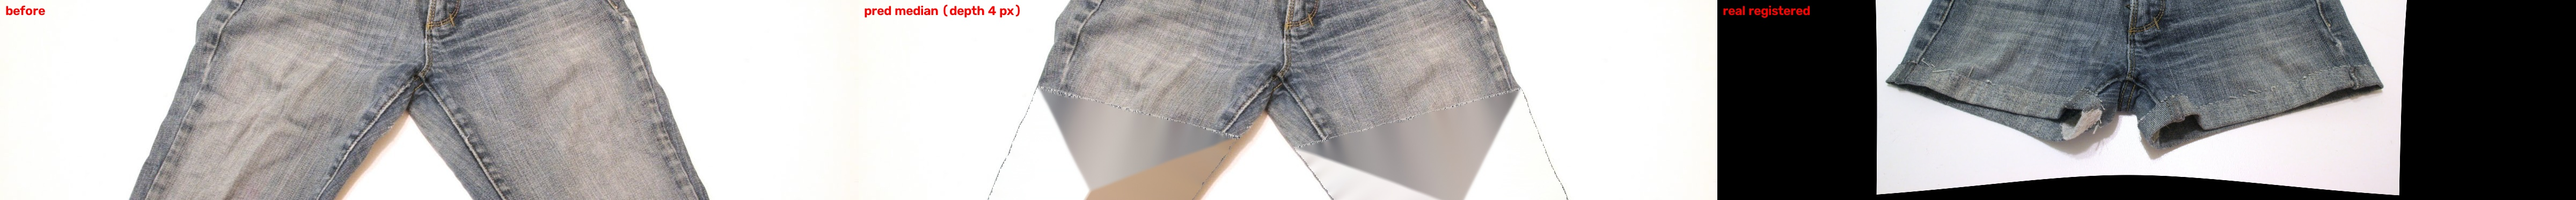
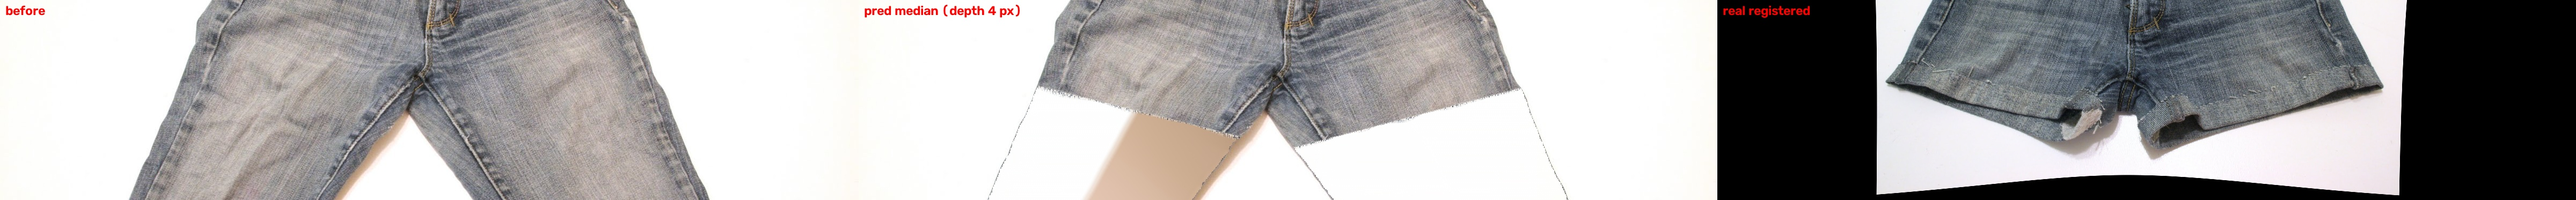
Backdrop-only background fill (inpaint whole garment, composite kept fabric back)

Changed region(s): [[0.4062, 0.4424, 0.5938, 1.0]]

diff --git a/src/denimtwin/canon/cut2d.py b/src/denimtwin/canon/cut2d.py
@@ -30,10 +30,7 @@ def apply_cut(image, garment_mask, cmap, remove_canon_mask, background_fill=None
     if background_fill is None:
         # inpaint the removed region from the surrounding background (Telea) instead of a flat median colour, so the
         # cut-away area looks like the floor/backdrop. Metrics never read these pixels (they use masks).
-        m = cv2.dilate(removed.astype(np.uint8), np.ones((5, 5), np.uint8))
-        src = image.copy(); src[gm & ~removed] = 0        # keep fabric out of the inpainting source? no: Telea uses the mask border only
-        out = cv2.inpaint(image, m, 7, cv2.INPAINT_TELEA)
-        out[~removed] = image[~removed]
+        out = background_fill(image, gm, removed)
     else:
         out[removed] = background_fill
     keep = garment_mask.astype(bool) & ~removed
@@ -52,3 +49,13 @@ def cut_mask_canon_angled(canon_size, inner_frac, outer_frac):
     ycut = yo + t * (yi - yo)
     m = np.arange(H)[:, None] >= ycut[None, :]
     return m
+
+def background_fill(image, garment_mask, removed):
+    """Fill `removed` with background texture only: inpaint the WHOLE garment from the surrounding backdrop
+    (so no fabric colour can bleed in), then composite the kept garment back. Metrics never read these pixels."""
+    gm = garment_mask.astype(np.uint8)
+    big = cv2.dilate(gm, np.ones((7, 7), np.uint8))
+    small = cv2.resize(image, None, fx=0.5, fy=0.5, interpolation=cv2.INTER_AREA); msmall = cv2.resize(big, (small.shape[1], small.shape[0]), interpolation=cv2.INTER_NEAREST)
+    bg_small = cv2.inpaint(small, msmall, 9, cv2.INPAINT_TELEA)                     # half-res for speed on large garments
+    bg = cv2.resize(bg_small, (image.shape[1], image.shape[0]), interpolation=cv2.INTER_LINEAR)
+    out = image.copy(); out[removed] = bg[removed]; return out

diff --git a/tools/run_pair.py b/tools/run_pair.py
@@ -13,6 +13,7 @@ from denimtwin.seg.sam import SamSegmenter, segment_garment_coarse, segment_frin
 from denimtwin.canon.autolm import landmarks_from_mask
 from denimtwin.canon.register import warp_after_to_before, SURVIVING
 from denimtwin.canon.hemfit import estimate_hems, cut_mask_from_lines
+from denimtwin.canon.cut2d import background_fill
 from denimtwin.canon.rawedge_v1 import render_three
 
 p = argparse.ArgumentParser()
@@ -116,7 +117,7 @@ if ov < 0.6: FAIL(f"registration failed: only {ov:.2f} of the registered real ga
 cb_ok = cb.get("garment_type") == "jeans"
 if not cb_ok: FAIL(f"before image is not full-length jeans (aspect says {cb.get('garment_type')})")
 bg = np.median(bf[~bmask], axis=0)
-cut = cv2.inpaint(bf, cv2.dilate(removed.astype(np.uint8), np.ones((5, 5), np.uint8)), 7, cv2.INPAINT_TELEA); cut[~removed] = bf[~removed]   # background inpainting, not a flat fill
+cut = background_fill(bf, bmask, removed)   # backdrop-only inpainting, no fabric bleed
 depth_measured_px = np.mean([L["fringe_depth_px"] for L in legs.values() if L])
 if a.prior:
     pr = json.load(open(a.prior)); ww = abs(lmb["waist_right"][0] - lmb["waist_left"][0])

diff --git a/experiments/pairs/SUMMARY.md b/experiments/pairs/SUMMARY.md
@@ -2,15 +2,15 @@
 
 | page | title | after | status | sil IoU pred / crop / no-op | chamfer px pred / crop | edge ΔE pred / crop | fringe IoU pred / no-op |
 |---|---|---|---|---|---|---|---|
-| b630a78c19 | How To Make Jeans Into Shorts The Easy W | after_cut | ok | 0.46 / 0.46 / 0.54 | 363 / 368 | 16.3 / 17.4 | 0.02 / 0.58 |
+| b630a78c19 | How To Make Jeans Into Shorts The Easy W | after_cut | ok | 0.46 / 0.46 / 0.54 | 363 / 368 | 17.5 / 17.4 | 0.02 / 0.58 |
 | 660bef67bf | Cómo hacer shorts con jeans viejos | after_cut | FAIL: REJECT: degenerate cut: removed fraction 0.00 | | | | |
 | 85d48013a2 | Tutorial: Aus Lang mach Kurz – Jeanshose | after_cut | FAIL: REJECT: after: garment touches the frame edge (cropped photo | | | | |
-| 4bfef03bd7 | DIY Denim Shorts | Thrifted Jeans Into S | after_wash | ok | 0.77 / 0.75 / 0.29 | 17 / 22 | 19.5 / 23.3 | 0.26 / 0.04 |
+| 4bfef03bd7 | DIY Denim Shorts | Thrifted Jeans Into S | after_wash | ok | 0.77 / 0.75 / 0.29 | 17 / 22 | 23.0 / 23.3 | 0.26 / 0.04 |
 | ee4bf13a3c | Magnolia Mamas: Fashion Fix: DIY Distres | after_wash | FAIL: REJECT: before: widest top row is not a single waistband run | | | | |
-| 8d9f0df4ad | This summer's DIY cut-off jeans shorts-- | after_cut | ok | 0.94 / 0.94 / 0.42 | 8 / 9 | 20.3 / 21.5 | 0.11 / 0.02 |
+| 8d9f0df4ad | This summer's DIY cut-off jeans shorts-- | after_cut | ok | 0.94 / 0.94 / 0.42 | 8 / 9 | 21.2 / 21.5 | 0.11 / 0.02 |
 | 963fcdd264 | DIY; Mom Jeans to High Waisted Shorts |  | after_cut | FAIL: REJECT: before: widest top row is not a single waistband run | | | | |
 | d52a3ff876 | Under Peach Trees: D.I.Y. Jeans to Short | after_cut | FAIL: REJECT: before: widest top row is not a single waistband run | | | | |
-| 443d1d4658 | Create Kids Couture: Upcycle Old Jeans i | after_cut | ok | 0.92 / 0.92 / 0.59 | 14 / 13 | 18.2 / 18.3 | 0.14 / 0.00 |
+| 443d1d4658 | Create Kids Couture: Upcycle Old Jeans i | after_cut | ok | 0.92 / 0.92 / 0.59 | 14 / 13 | 18.5 / 18.3 | 0.14 / 0.00 |
 | 3082dfddc1 | DIY style: perfectly distressed jean sho | after_wash | FAIL: REJECT: degenerate cut: removed fraction 0.88 | | | | |
 | 22a5857a0c | Comment transformer son jeans en short - | after_cut | FAIL: REJECT: after: garment touches the frame edge (cropped photo | | | | |
 | f9c0e56308 | 7 Easy Steps to: DIY Denim Shorts - 51li | after_wash | FAIL: REJECT: degenerate cut: removed fraction 0.76 | | | | |

diff --git a/experiments/pairs/b630a78c19/NOTE.md b/experiments/pairs/b630a78c19/NOTE.md
@@ -11,8 +11,8 @@ registration residual (leave-one-landmark-out): 41.30px
 
 | system | sil IoU | chamfer | edge ΔE | fringe IoU |
 |---|---|---|---|---|
-| pred conservative | 0.459 | 366.0 | 15.9 | 0.007 |
-| pred median | 0.460 | 363.3 | 16.3 | 0.017 |
-| pred aggressive | 0.460 | 360.9 | 16.6 | 0.026 |
+| pred conservative | 0.459 | 366.0 | 17.4 | 0.007 |
+| pred median | 0.460 | 363.3 | 17.5 | 0.017 |
+| pred aggressive | 0.460 | 360.9 | 17.5 | 0.026 |
 | null:no-op | 0.536 | 296.2 | 16.4 | 0.582 |
 | null:crop-only | 0.459 | 367.7 | 17.4 | 0.000 |

diff --git a/experiments/pairs/4bfef03bd7/NOTE.md b/experiments/pairs/4bfef03bd7/NOTE.md
@@ -11,8 +11,8 @@ registration residual (leave-one-landmark-out): 42.01px
 
 | system | sil IoU | chamfer | edge ΔE | fringe IoU |
 |---|---|---|---|---|
-| pred conservative | 0.759 | 19.3 | 18.9 | 0.123 |
-| pred median | 0.767 | 16.8 | 19.5 | 0.265 |
-| pred aggressive | 0.771 | 16.1 | 19.9 | 0.338 |
+| pred conservative | 0.759 | 19.3 | 23.2 | 0.123 |
+| pred median | 0.767 | 16.8 | 23.0 | 0.265 |
+| pred aggressive | 0.771 | 16.1 | 22.7 | 0.338 |
 | null:no-op | 0.286 | 503.4 | 20.5 | 0.038 |
 | null:crop-only | 0.751 | 22.0 | 23.3 | 0.000 |

diff --git a/experiments/pairs/443d1d4658/NOTE.md b/experiments/pairs/443d1d4658/NOTE.md
@@ -11,8 +11,8 @@ registration residual (leave-one-landmark-out): 6.42px
 
 | system | sil IoU | chamfer | edge ΔE | fringe IoU |
 |---|---|---|---|---|
-| pred conservative | 0.918 | 13.6 | 18.0 | 0.068 |
-| pred median | 0.917 | 14.0 | 18.2 | 0.142 |
-| pred aggressive | 0.915 | 14.7 | 18.4 | 0.121 |
+| pred conservative | 0.918 | 13.6 | 18.3 | 0.068 |
+| pred median | 0.917 | 14.0 | 18.5 | 0.142 |
+| pred aggressive | 0.915 | 14.7 | 18.7 | 0.121 |
 | null:no-op | 0.587 | 190.6 | 21.4 | 0.005 |
 | null:crop-only | 0.918 | 13.4 | 18.3 | 0.000 |

diff --git a/experiments/pairs/8d9f0df4ad/NOTE.md b/experiments/pairs/8d9f0df4ad/NOTE.md
@@ -11,8 +11,8 @@ registration residual (leave-one-landmark-out): 31.22px
 
 | system | sil IoU | chamfer | edge ΔE | fringe IoU |
 |---|---|---|---|---|
-| pred conservative | 0.944 | 8.4 | 20.3 | 0.051 |
-| pred median | 0.945 | 8.1 | 20.3 | 0.108 |
-| pred aggressive | 0.945 | 8.1 | 20.4 | 0.159 |
+| pred conservative | 0.944 | 8.4 | 21.2 | 0.051 |
+| pred median | 0.945 | 8.1 | 21.2 | 0.108 |
+| pred aggressive | 0.945 | 8.1 | 21.1 | 0.159 |
 | null:no-op | 0.421 | 303.4 | 22.7 | 0.015 |
 | null:crop-only | 0.943 | 8.7 | 21.5 | 0.000 |
